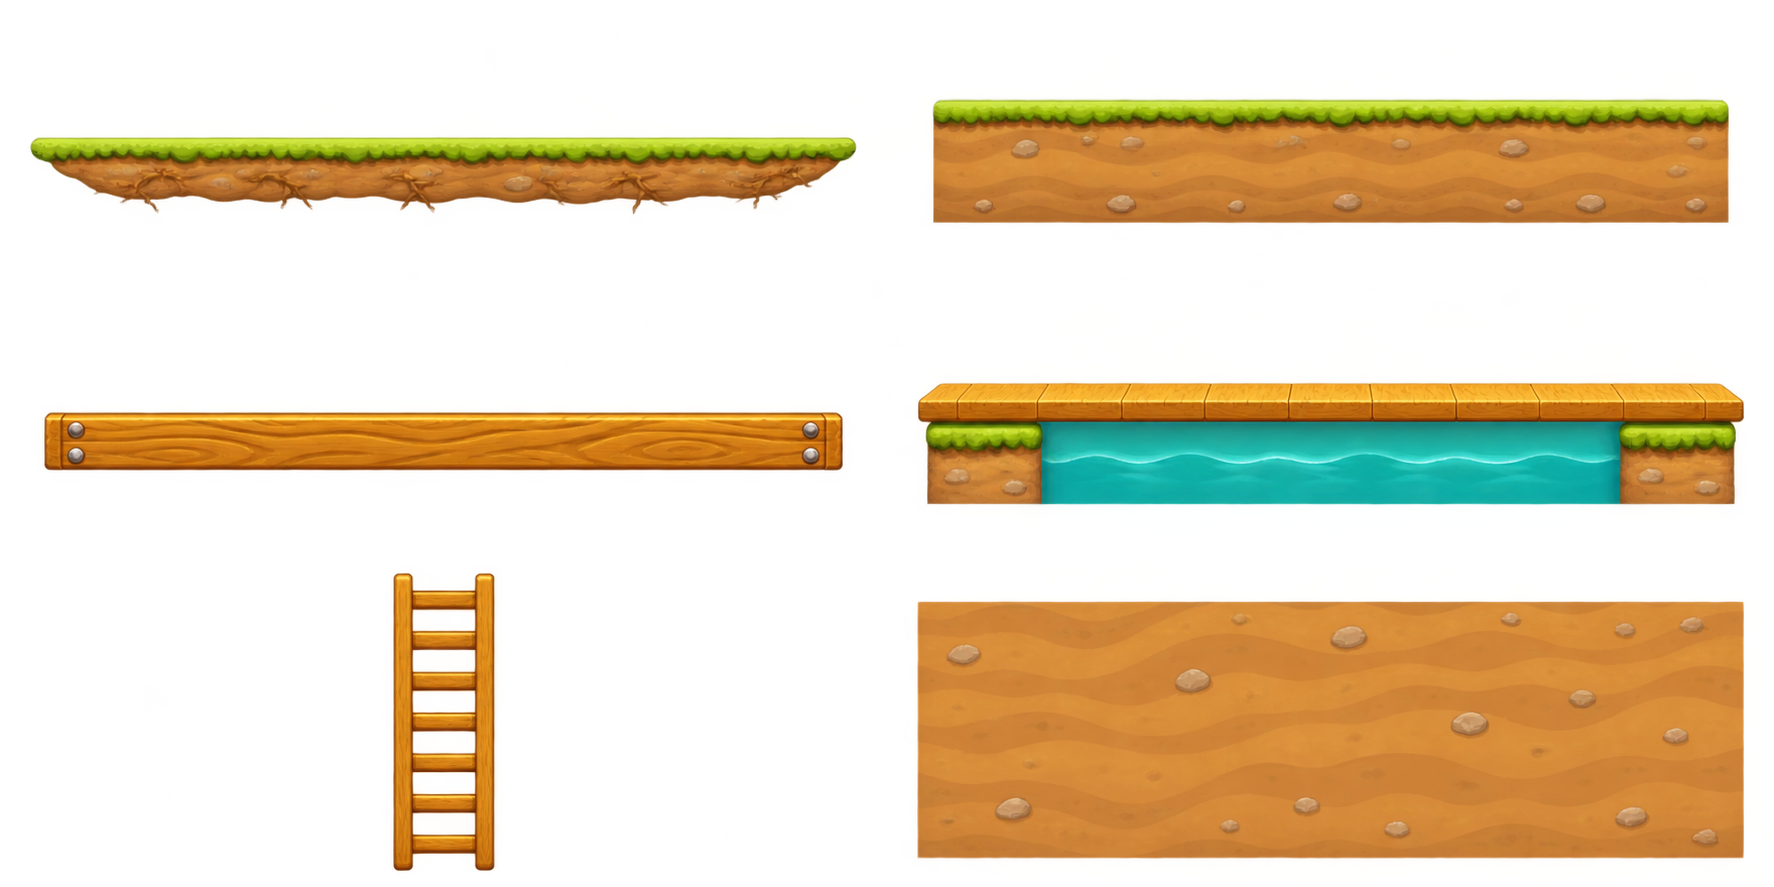
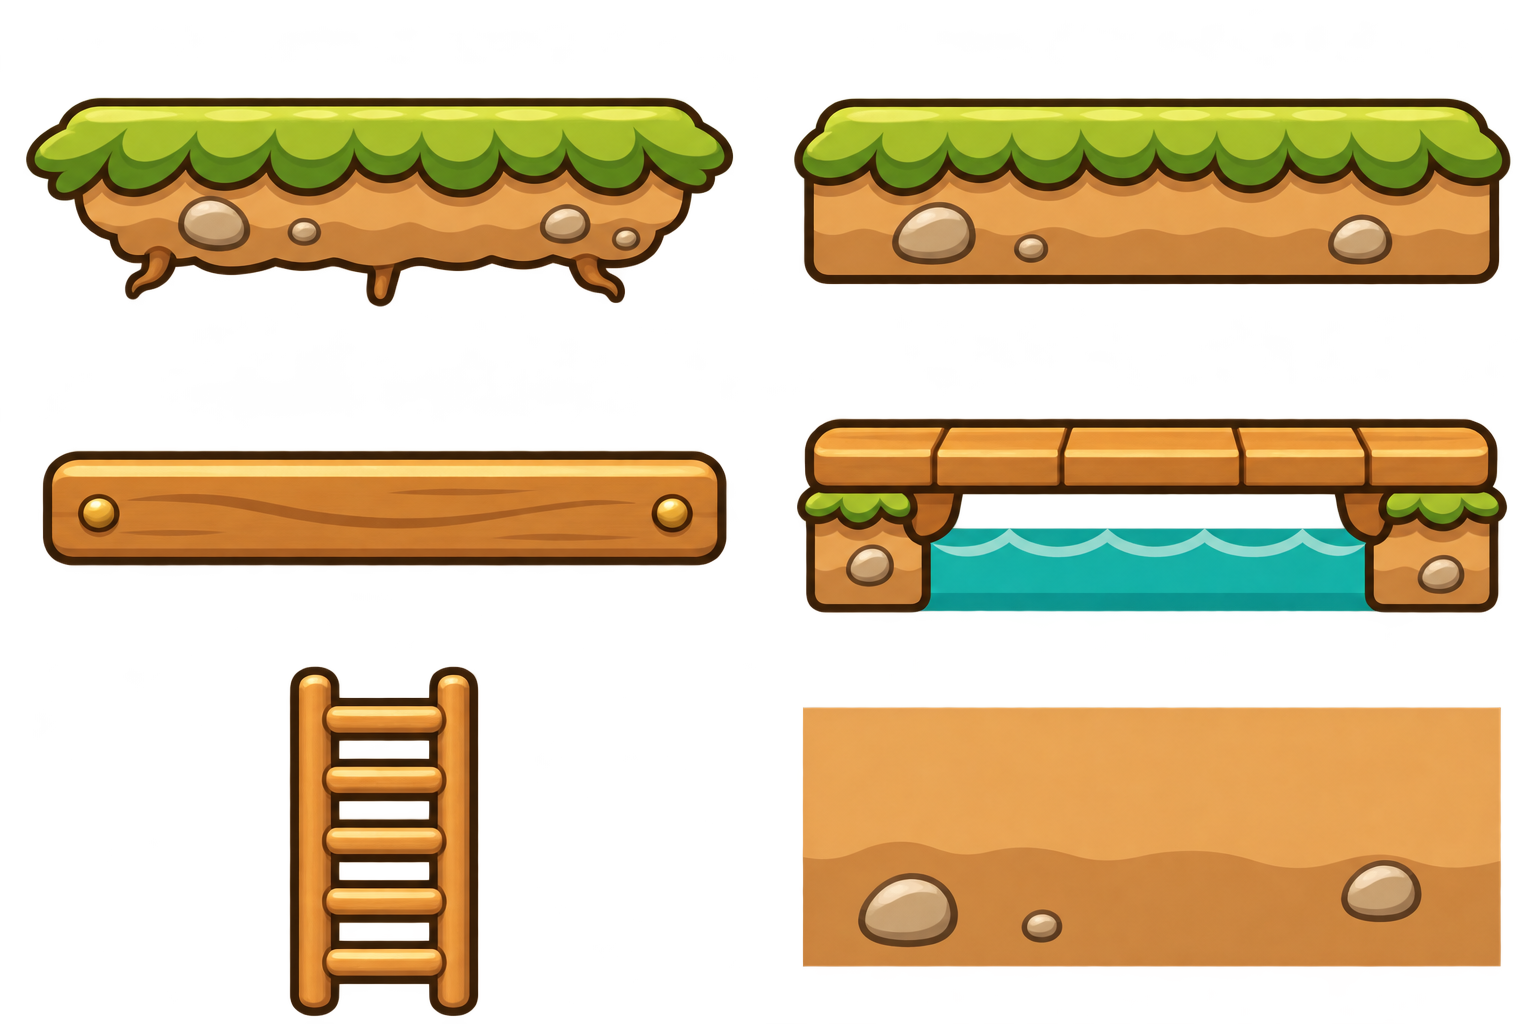
Match generated village and woods terrain to existing prop artwork

diff --git a/apps/web/src/generated-terrain.ts b/apps/web/src/generated-terrain.ts
@@ -85,36 +85,43 @@ function horizontal(
   paint(ctx, f, x, y, scale, 0, 0, cap, f.h);
   paint(ctx, f, end, y, scale, f.w - cap, 0, cap, f.h);
 }
-function soil(ctx: CanvasRenderingContext2D, f: Source, width: number, y: number, height: number) {
-  const scale = 0.65,
-    tw = f.w * scale,
+function soil(
+  ctx: CanvasRenderingContext2D,
+  f: Source,
+  width: number,
+  y: number,
+  height: number,
+  scale = 0.65,
+) {
+  const tw = f.w * scale,
     th = f.h * scale;
-  for (let top = y; top < height; top += th)
-    for (let left = 0; left < width; left += tw)
-      paint(
-        ctx,
-        f,
-        left,
-        top,
-        scale,
-        0,
-        0,
-        Math.min(f.w, (width - left) / scale),
-        Math.min(f.h, (height - top) / scale),
-      );
+  let row = 0;
+  for (let top = y; top < height; top += th, row++) {
+    for (let left = 0; left < width; left += tw) {
+      const sw = Math.min(f.w, (width - left) / scale);
+      ctx.save();
+      // Reflect alternating rows so dark soil meets dark soil, without visible stripe resets.
+      if (row % 2 === 0) {
+        ctx.translate(0, top + th);
+        ctx.scale(1, -1);
+        paint(ctx, f, left, 0, scale, 0, 0, sw, f.h);
+      } else paint(ctx, f, left, top, scale, 0, 0, sw, f.h);
+      ctx.restore();
+    }
+  }
 }
 /** A small repeating generated soil texture fills below the map without a giant baked canvas. */
 export function generatedSoil(scene: Phaser.Scene, map: GameMap, theme: GeneratedTerrainTheme) {
   const ground = map.platforms.find((p) => !p.oneWay);
   if (!ground) return;
   const f = source(scene, theme, 'soil'),
-    scale = 0.65,
-    key = `terrain-soil-art-hd:${theme}`;
+    scale = Math.round(f.h * 0.65) / f.h,
+    key = `terrain-soil-art-matched-v3:${theme}`;
   const width = Math.floor(f.w * scale),
-    height = Math.floor(f.h * scale);
+    height = Math.round(f.h * scale) * 2;
   const { texture, ctx, density } = raster(scene, key, width, height);
   if (!texture.canvas.dataset.rendered) {
-    paint(ctx, f, 0, 0, scale);
+    soil(ctx, f, width, 0, height, scale);
     texture.refresh();
     texture.canvas.dataset.rendered = 'true';
   }
@@ -146,15 +153,16 @@ export function generatedPlatform(
       : kind === 'dock'
         ? 82 / frame.h
         : kind === 'ground'
-          ? 0.7
+          ? 85 / frame.h
           : 70 / frame.h;
+  const bakedFoundation = !p.oneWay && map.id.startsWith('house-');
   const pad = 4,
-    height = !p.oneWay ? Math.max(180, map.height - p.y + 160) : Math.ceil(frame.h * scale);
-  const key = `terrain-generated-hd-v2:${theme}:${map.id}:${p.id}`;
+    height = bakedFoundation ? Math.max(180, map.height - p.y + 160) : Math.ceil(frame.h * scale);
+  const key = `terrain-generated-hd-v4:${theme}:${map.id}:${p.id}`;
   remember(scene, map.id, key);
   const { texture, ctx, density } = raster(scene, key, p.width + pad * 2, height + pad * 2);
   if (!texture.canvas.dataset.rendered) {
-    if (!p.oneWay) {
+    if (bakedFoundation) {
       ctx.save();
       ctx.translate(pad, pad);
       soil(ctx, source(scene, theme, 'soil'), p.width, Math.floor(frame.h * scale) - 3, height);
@@ -186,22 +194,23 @@ export function generatedPlatform(
 }
 export function generatedLadder(scene: Phaser.Scene, l: Ladder, theme: GeneratedTerrainTheme) {
   const frame = source(scene, theme, 'ladder'),
-    scale = 48 / frame.w;
+    artWidth = theme === 'woods' ? 60 : 48,
+    scale = artWidth / frame.w;
   const height = l.bottom - l.top,
     pad = 20,
-    width = 64,
+    width = artWidth + 16,
     fullHeight = height + pad * 2;
-  const key = `ladder-generated-hd-v2:${theme}:${height}`;
+  const key = `ladder-generated-hd-v3:${theme}:${height}`;
   const { texture, ctx, density } = raster(scene, key, width, fullHeight);
   if (!texture.canvas.dataset.rendered) {
-    const x = (width - 48) / 2;
-    const cap = 24,
+    const x = (width - artWidth) / 2;
+    const cap = 32,
       edge = cap * scale,
       top = pad - 14,
       bottom = pad + height + 4;
     // Select a whole rung interval for repeats so the rails and rungs meet naturally.
-    const start = theme === 'woods' ? 92 : 60,
-      repeat = theme === 'woods' ? 42 : 40;
+    const start = theme === 'woods' ? 90 : 80,
+      repeat = theme === 'woods' ? 70 : 61;
     for (let y = top + edge; y < bottom - edge; ) {
       const size = Math.min(repeat * scale, bottom - edge - y);
       paint(ctx, frame, x, y, scale, 0, start, frame.w, size / scale);
